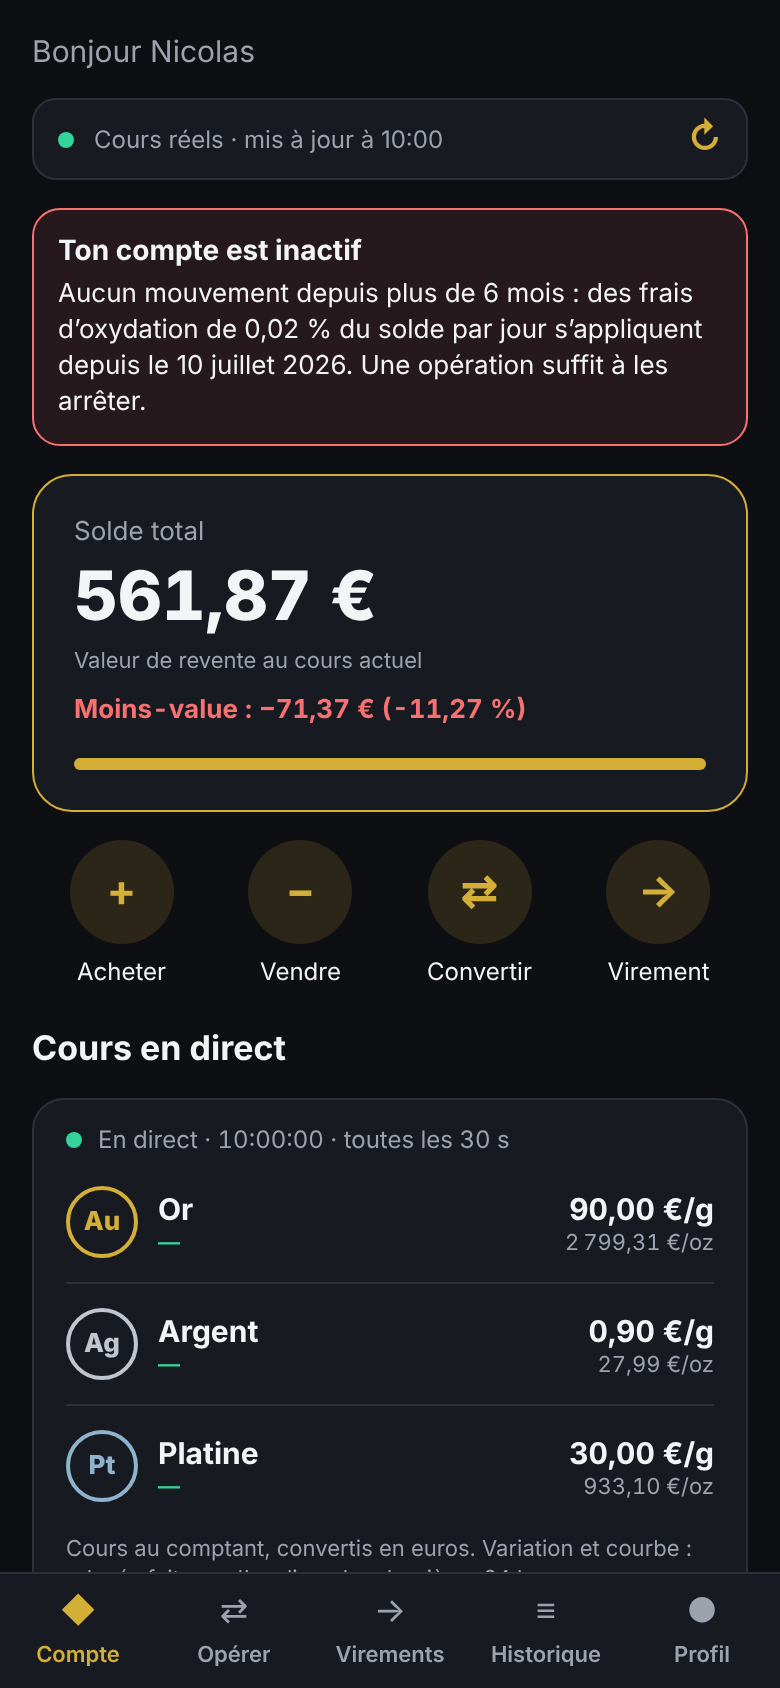
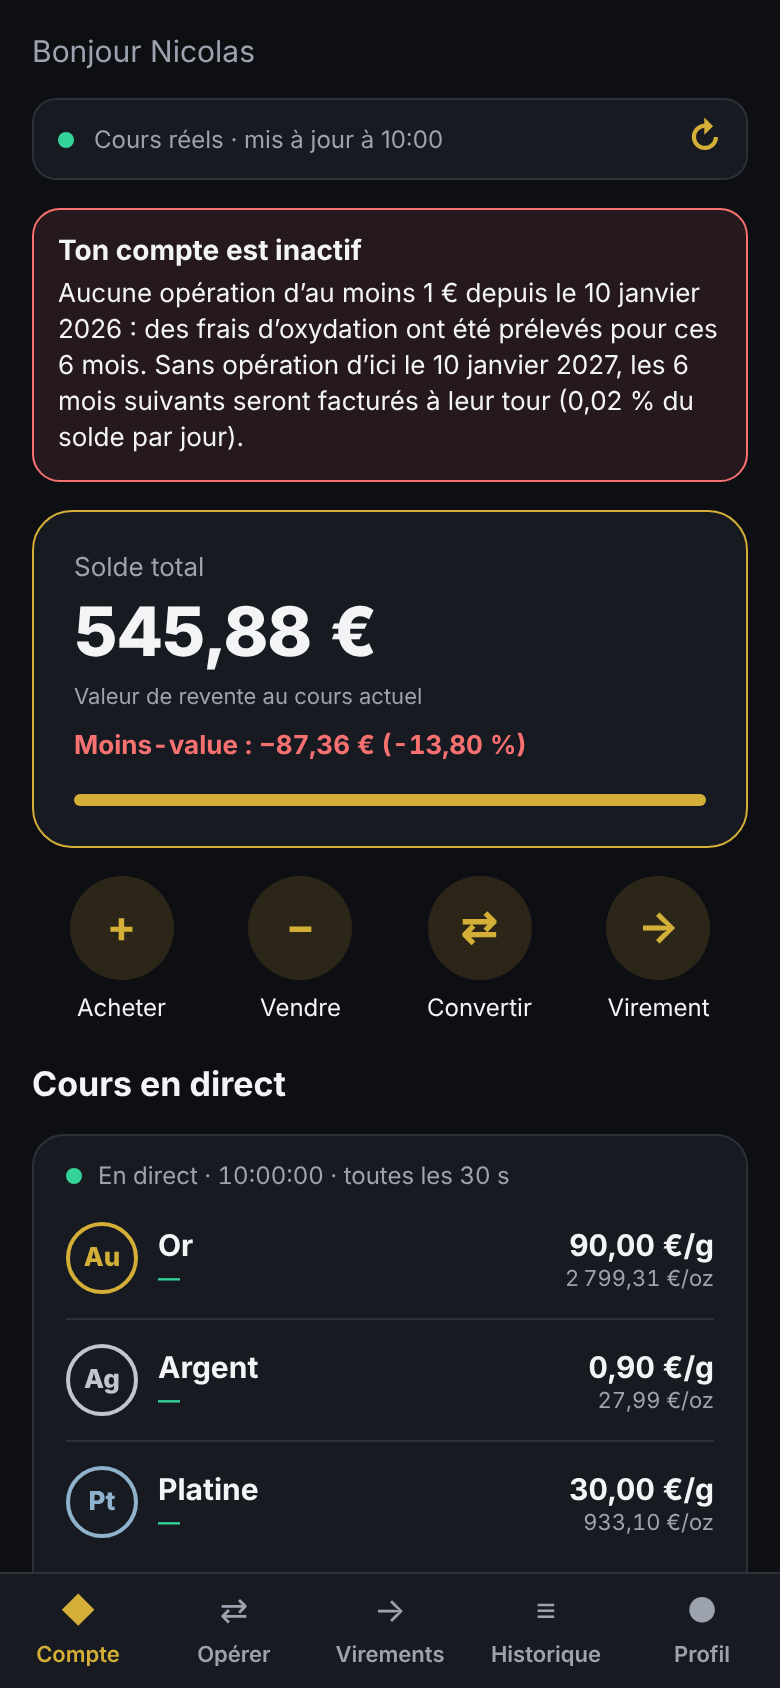
Facture les frais d'oxydation par période de 6 mois inactifs
- Un compte laissé 6 mois calendaires sans opération d'au moins 1 €
  est facturé 0,02 % du solde par jour sur ces 6 mois, en une fois ;
  chaque nouvelle période de 6 mois d'inactivité est facturée de même
- Seules les opérations d'au moins 1 € comptent comme un mouvement
- L'avertissement reste affiché tant que le compte est inactif et
  annonce la date du prochain prélèvement ; textes des tarifs à jour

Claude-Session: https://claude.ai/code/session_019m3ctJVz1TpkJKNRs6VdX9

diff --git a/src/logic/ledger.ts b/src/logic/ledger.ts
@@ -492,48 +492,77 @@ function addMonths(date: Date, months: number): Date {
   return d;
 }
 
-/** Date du dernier mouvement (les frais d'oxydation eux-mêmes ne comptent pas). */
+/** Montant minimal d'une opération pour qu'elle compte comme un mouvement (et évite les frais d'oxydation). */
+export const MIN_MOVEMENT_EUR = 1;
+
+/** Une opération d'au moins 1 € compte comme un mouvement ; les frais d'oxydation eux-mêmes, jamais. */
+export function isMovement(tx: Transaction): boolean {
+  return tx.kind !== 'fee_dormancy' && tx.eur >= MIN_MOVEMENT_EUR;
+}
+
+/** Date du dernier mouvement (opération d'au moins 1 €), ou de l'ouverture du compte. */
 export function lastMovement(wallet: Wallet): Date {
   let last = new Date(wallet.createdAt).getTime();
   for (const tx of wallet.transactions) {
-    if (tx.kind === 'fee_dormancy') continue;
-    last = Math.max(last, new Date(tx.date).getTime());
+    if (isMovement(tx)) last = Math.max(last, new Date(tx.date).getTime());
   }
   return new Date(last);
 }
 
-/** Où en est le compte vis-à-vis de l'inactivité. */
+/**
+ * Où en est le compte vis-à-vis de l'inactivité. Les périodes d'inactivité durent 6 mois calendaires
+ * à partir du dernier mouvement ; `nextChargeAt` est la fin de la prochaine période non facturée.
+ */
 export function dormancyStatus(wallet: Wallet, now = new Date()) {
-  const inactiveFrom = addMonths(lastMovement(wallet), FEES.dormancyAfterMonths);
-  const daysLeft = Math.ceil((inactiveFrom.getTime() - now.getTime()) / DAY_MS);
-  return { inactive: now >= inactiveFrom, inactiveFrom, daysLeft };
+  const last = lastMovement(wallet);
+  const inactiveFrom = addMonths(last, FEES.dormancyAfterMonths);
+  const charged = wallet.dormancyChargedThrough ? new Date(wallet.dormancyChargedThrough).getTime() : 0;
+  let k = 1;
+  while (addMonths(last, FEES.dormancyAfterMonths * k).getTime() <= Math.max(charged, last.getTime())) k++;
+  const nextChargeAt = addMonths(last, FEES.dormancyAfterMonths * k);
+  const daysLeft = Math.ceil((nextChargeAt.getTime() - now.getTime()) / DAY_MS);
+  return { inactive: now >= inactiveFrom, inactiveFrom, nextChargeAt, daysLeft, lastMovement: last };
 }
 
 /**
- * Prélève les frais d'oxydation dus : 0,02 % du solde par jour d'inactivité (au-delà de 6 mois sans mouvement),
- * en métal, jour après jour. N'agit que sur les jours entiers pas encore facturés.
+ * Prélève les frais d'oxydation dus. Chaque période de 6 mois calendaires sans mouvement, une fois écoulée,
+ * est facturée 0,02 % du solde par jour de la période (environ 3,6 % pour 6 mois), en métal.
+ * Une période déjà facturée ne l'est jamais deux fois.
  */
 export function chargeDormancy<W extends Wallet>(wallet: W, prices: Prices, now = new Date()): W {
-  const { inactive, inactiveFrom } = dormancyStatus(wallet, now);
-  if (!inactive) return wallet;
+  const last = lastMovement(wallet);
   const charged = wallet.dormancyChargedThrough ? new Date(wallet.dormancyChargedThrough).getTime() : 0;
-  const start = Math.max(inactiveFrom.getTime(), charged);
-  const days = Math.floor((now.getTime() - start) / DAY_MS);
-  if (days < 1) return wallet;
-  const through = new Date(start + days * DAY_MS).toISOString();
-  const share = 1 - (1 - FEES.dormancyDaily) ** days;
-  const deltas: Partial<Holdings> = {};
-  let value = 0;
-  for (const m of METALS) {
-    const fee = wallet.holdings[m] * share;
-    if (fee > 0) {
-      deltas[m] = -fee;
-      value += fee * prices[m];
+  let result = wallet;
+  for (let k = 1; ; k++) {
+    const periodStart = addMonths(last, FEES.dormancyAfterMonths * (k - 1));
+    const periodEnd = addMonths(last, FEES.dormancyAfterMonths * k);
+    if (periodEnd.getTime() > now.getTime()) break;
+    if (periodEnd.getTime() <= charged) continue;
+    const days = Math.round((periodEnd.getTime() - periodStart.getTime()) / DAY_MS);
+    const share = Math.min(1, FEES.dormancyDaily * days);
+    const deltas: Partial<Holdings> = {};
+    let value = 0;
+    for (const m of METALS) {
+      const fee = result.holdings[m] * share;
+      if (fee > 0) {
+        deltas[m] = -fee;
+        value += fee * prices[m];
+      }
+    }
+    const through = periodEnd.toISOString();
+    if (value > 0) {
+      const from = periodStart.toLocaleDateString('fr-FR');
+      const to = periodEnd.toLocaleDateString('fr-FR');
+      const label = `Frais d’oxydation · ${days} jours d’inactivité (${from} → ${to})`;
+      result = {
+        ...apply(result, 'fee_dormancy', deltas, value, label, periodEnd, value),
+        dormancyChargedThrough: through,
+      };
+    } else {
+      result = { ...result, dormancyChargedThrough: through };
     }
   }
-  if (value <= 0) return { ...wallet, dormancyChargedThrough: through };
-  const label = `Frais d’oxydation · ${days} jour${days > 1 ? 's' : ''} d’inactivité`;
-  return { ...apply(wallet, 'fee_dormancy', deltas, value, label, now, value), dormancyChargedThrough: through };
+  return result;
 }
 
 /** Applique les frais d'oxydation au compte principal et à chaque compte enfant. */

diff --git a/scripts/ledger.test.ts b/scripts/ledger.test.ts
@@ -228,7 +228,7 @@ test('comptes enfants : gratuits, alimentés et repris depuis le compte principa
   assert.equal(acc.children.length, 0);
 });
 
-test('frais d’oxydation : 0,02 %/jour après 6 mois sans mouvement, sur chaque compte', async () => {
+test('frais d’oxydation : 0,02 %/jour facturés pour chaque période de 6 mois sans opération d’au moins 1 €', async () => {
   const { applyDormancy, dormancyStatus, addChild, fundChild } = await import('../src/logic/ledger.ts');
   const t0 = new Date('2026-01-10T12:00:00Z');
   const day = 86_400_000;
@@ -239,20 +239,23 @@ test('frais d’oxydation : 0,02 %/jour après 6 mois sans mouvement, sur chaque
   const m5 = new Date('2026-06-10T12:00:00Z');
   assert.equal(applyDormancy(acc, prices, m5), acc);
   assert.ok(!dormancyStatus(acc, m5).inactive);
-  // 6 mois + 10 jours : 10 jours facturés sur les deux comptes
-  const inactiveFrom = new Date('2026-07-10T12:00:00Z');
-  const later = new Date(inactiveFrom.getTime() + 10 * day);
-  const charged = applyDormancy(acc, prices, later);
-  const share = 1 - (1 - 0.0002) ** 10;
+  // Une opération de moins de 1 € ne compte pas comme un mouvement
+  const tiny = buy(acc, prices, 'gold', { unit: 'eur', value: 0.5 }, m5);
+  assert.equal(dormancyStatus(tiny, m5).lastMovement.toISOString(), t0.toISOString());
+  // 6 mois écoulés (10 janvier → 10 juillet = 181 jours) : facturés d'un coup, sur chaque compte
+  const m6 = new Date('2026-07-12T12:00:00Z');
+  const charged = applyDormancy(acc, prices, m6);
+  const share = 0.0002 * 181;
   close(charged.holdings.gold, 50 * (1 - share));
   close(charged.children[0].holdings.gold, 50 * (1 - share));
   assert.equal(charged.transactions[0].kind, 'fee_dormancy');
-  // relancé le même jour : pas de double facturation
-  assert.equal(applyDormancy(charged, prices, new Date(later.getTime() + 3_600_000)), charged);
-  // 5 jours de plus : seuls ces 5 jours sont facturés
-  const again = applyDormancy(charged, prices, new Date(later.getTime() + 5 * day));
-  close(again.holdings.gold, 50 * (1 - share) * (1 - 0.0002) ** 5);
-  // les frais ne comptent pas comme un mouvement ; un vrai mouvement remet le compteur à zéro
-  const moved = buy(again, prices, 'gold', { unit: 'g', value: 1 }, new Date(later.getTime() + 5 * day));
-  assert.ok(!dormancyStatus(moved, new Date(later.getTime() + 6 * day)).inactive);
+  // relancé plus tard dans la même période : pas de double facturation
+  assert.equal(applyDormancy(charged, prices, new Date(m6.getTime() + 60 * day)), charged);
+  // 6 mois de plus sans opération (10 juillet → 10 janvier = 184 jours) : la période suivante est facturée
+  const m12 = new Date('2027-01-11T12:00:00Z');
+  const again = applyDormancy(charged, prices, m12);
+  close(again.holdings.gold, 50 * (1 - share) * (1 - 0.0002 * 184));
+  // une opération d'au moins 1 € remet le compteur à zéro
+  const moved = buy(again, prices, 'gold', { unit: 'eur', value: 1 }, m12);
+  assert.ok(!dormancyStatus(moved, new Date(m12.getTime() + 30 * day)).inactive);
 });

diff --git a/src/components/DormancyNotice.tsx b/src/components/DormancyNotice.tsx
@@ -5,20 +5,24 @@ import { dormancyStatus } from '../logic/ledger';
 import type { Wallet } from '../logic/types';
 import { colors } from '../theme';
 
-/** Préviens quand un compte approche (ou a dépassé) les 6 mois sans mouvement. */
+const fmt = (d: Date) => d.toLocaleDateString('fr-FR', { day: 'numeric', month: 'long', year: 'numeric' });
+
+/** Prévient quand une période de 6 mois sans opération d'au moins 1 € arrive à son terme (ou est dépassée). */
 export function DormancyNotice({ wallet, name }: { wallet: Wallet; name?: string }) {
   const status = dormancyStatus(wallet);
+  // Visible tant que le compte est inactif, ou dans le mois qui précède un prélèvement.
   if (!status.inactive && status.daysLeft > 30) return null;
   const who = name ? `Le compte de ${name}` : 'Ton compte';
-  const date = status.inactiveFrom.toLocaleDateString('fr-FR', { day: 'numeric', month: 'long', year: 'numeric' });
   const rate = `${(FEES.dormancyDaily * 100).toLocaleString('fr-FR')} %`;
+  const months = FEES.dormancyAfterMonths;
+  const total = `${(Math.round(FEES.dormancyDaily * 182 * 1000) / 10).toLocaleString('fr-FR')} %`;
   return (
     <View style={[styles.box, status.inactive && styles.boxInactive]}>
       <Text style={styles.title}>{status.inactive ? `${who} est inactif` : `${who} sera bientôt inactif`}</Text>
       <Text style={styles.text}>
         {status.inactive
-          ? `Aucun mouvement depuis plus de ${FEES.dormancyAfterMonths} mois : des frais d’oxydation de ${rate} du solde par jour s’appliquent depuis le ${date}. Une opération suffit à les arrêter.`
-          : `Sans mouvement d’ici le ${date}, des frais d’oxydation de ${rate} du solde par jour s’appliqueront. Une opération suffit à remettre le compteur à zéro.`}
+          ? `Aucune opération d’au moins 1 € depuis le ${fmt(status.lastMovement)} : des frais d’oxydation ont été prélevés pour ces ${months} mois. Sans opération d’ici le ${fmt(status.nextChargeAt)}, les ${months} mois suivants seront facturés à leur tour (${rate} du solde par jour).`
+          : `Sans opération d’au moins 1 € d’ici le ${fmt(status.nextChargeAt)}, des frais d’oxydation de ${rate} du solde par jour seront prélevés pour ces ${months} mois (environ ${total} du solde). Une opération suffit à remettre le compteur à zéro.`}
       </Text>
     </View>
   );

diff --git a/src/app/tarifs.tsx b/src/app/tarifs.tsx
@@ -26,15 +26,19 @@ export default function FeesScreen() {
       <SectionTitle>Frais d’oxydation, en détail</SectionTitle>
       <Card style={{ gap: 6 }}>
         <Text style={styles.para}>
-          Un compte est considéré comme inactif s’il n’a connu aucun mouvement pendant plus de{' '}
-          {FEES.dormancyAfterMonths} mois glissants (achat, vente, conversion, virement ou versement familial).
+          Un compte laissé inactif pendant {FEES.dormancyAfterMonths} mois calendaires subit des frais de gestion de{' '}
+          {(FEES.dormancyDaily * 100).toLocaleString('fr-FR')} % par jour, appliqués pour ces {FEES.dormancyAfterMonths}{' '}
+          mois inactifs (environ {(Math.round(FEES.dormancyDaily * 182 * 1000) / 10).toLocaleString('fr-FR')} % du
+          solde), prélevés en métal.
         </Text>
         <Text style={styles.para}>
-          À partir de là, {(FEES.dormancyDaily * 100).toLocaleString('fr-FR')} % du solde est prélevé chaque jour, en
-          métal, jusqu’au prochain mouvement. Les frais eux-mêmes ne comptent pas comme un mouvement.
+          Pour éviter ces frais, il suffit de réaliser une opération à partir d’un euro : achat, vente, conversion,
+          virement ou versement sur un compte enfant. Les frais eux-mêmes ne comptent pas comme une opération.
         </Text>
         <Text style={styles.para}>
-          La règle s’applique à chaque compte séparément, comptes enfants compris. L’appli te prévient un mois avant.
+          Si l’inactivité continue, chaque nouvelle période de {FEES.dormancyAfterMonths} mois est facturée de la même
+          façon. La règle s’applique à chaque compte séparément, comptes enfants compris. L’appli te prévient un mois
+          avant.
         </Text>
       </Card>
 

diff --git a/src/logic/fees.ts b/src/logic/fees.ts
@@ -15,7 +15,7 @@ export const FEES = {
   immediateSpread: 0.028,
   /** Frais de gestion sur la revente lors d'une conversion (s'ajoutent aux frais d'achat du métal reçu). */
   conversion: 0.008,
-  /** Frais d'oxydation : part du solde prélevée chaque jour d'inactivité. */
+  /** Frais d'oxydation : part du solde facturée par jour d'une période de 6 mois sans mouvement. */
   dormancyDaily: 0.0002,
   /** Un compte est inactif après ce nombre de mois sans mouvement. */
   dormancyAfterMonths: 6,
@@ -66,8 +66,8 @@ export const FEE_TABLE: { title: string; rows: FeeRow[] }[] = [
       { label: 'Réception de métaux d’un membre', orvia: 'Gratuit' },
       { label: 'Compte enfant (ouverture, tenue, alimentation)', orvia: 'Gratuit' },
       {
-        label: `Frais d’oxydation : compte sans mouvement depuis plus de ${FEES.dormancyAfterMonths} mois`,
-        orvia: `${pct(FEES.dormancyDaily)} du solde par jour`,
+        label: `Frais d’oxydation : ${FEES.dormancyAfterMonths} mois calendaires sans opération d’au moins 1 €`,
+        orvia: `${pct(FEES.dormancyDaily)} du solde par jour, sur ces ${FEES.dormancyAfterMonths} mois`,
       },
     ],
   },

diff --git a/README.md b/README.md
@@ -54,9 +54,9 @@ Il est reconstruit automatiquement à chaque modification (voir `.github/workflo
   envois et réceptions entre membres gratuits.
 - **Comptes enfants gratuits** : un coffre par enfant, alimenté et repris depuis le compte principal
   sans frais (`docs/compte-enfant.png`).
-- **Frais d'oxydation** : 0,02 % du solde par jour, prélevés en métal, quand un compte (principal ou
-  enfant) n'a connu aucun mouvement depuis plus de 6 mois glissants. L'appli prévient un mois avant
-  (`docs/oxydation.png`).
+- **Frais d'oxydation** : un compte (principal ou enfant) laissé 6 mois calendaires sans opération d'au
+  moins 1 € est facturé 0,02 % du solde par jour sur ces 6 mois (environ 3,6 %), en métal ; chaque nouvelle
+  période de 6 mois d'inactivité est facturée de même. L'appli prévient un mois avant (`docs/oxydation.png`).
 
 Sources des cours : [gold-api.com](https://gold-api.com) (métaux) et
 [Frankfurter](https://frankfurter.dev) / [open.er-api.com](https://open.er-api.com) (taux USD → EUR).
